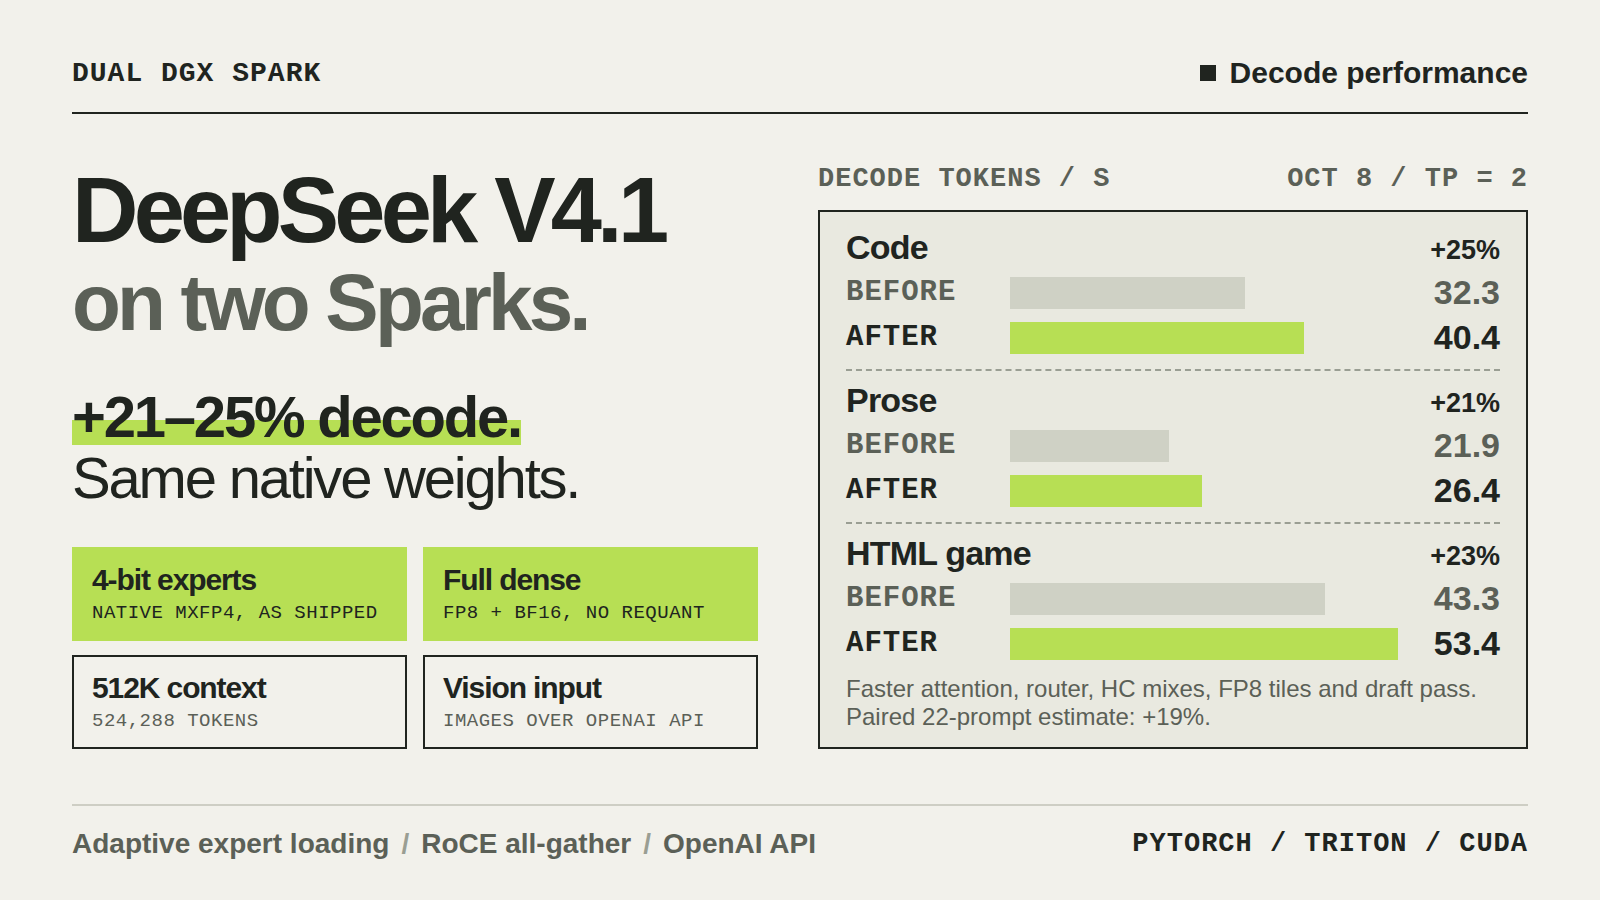
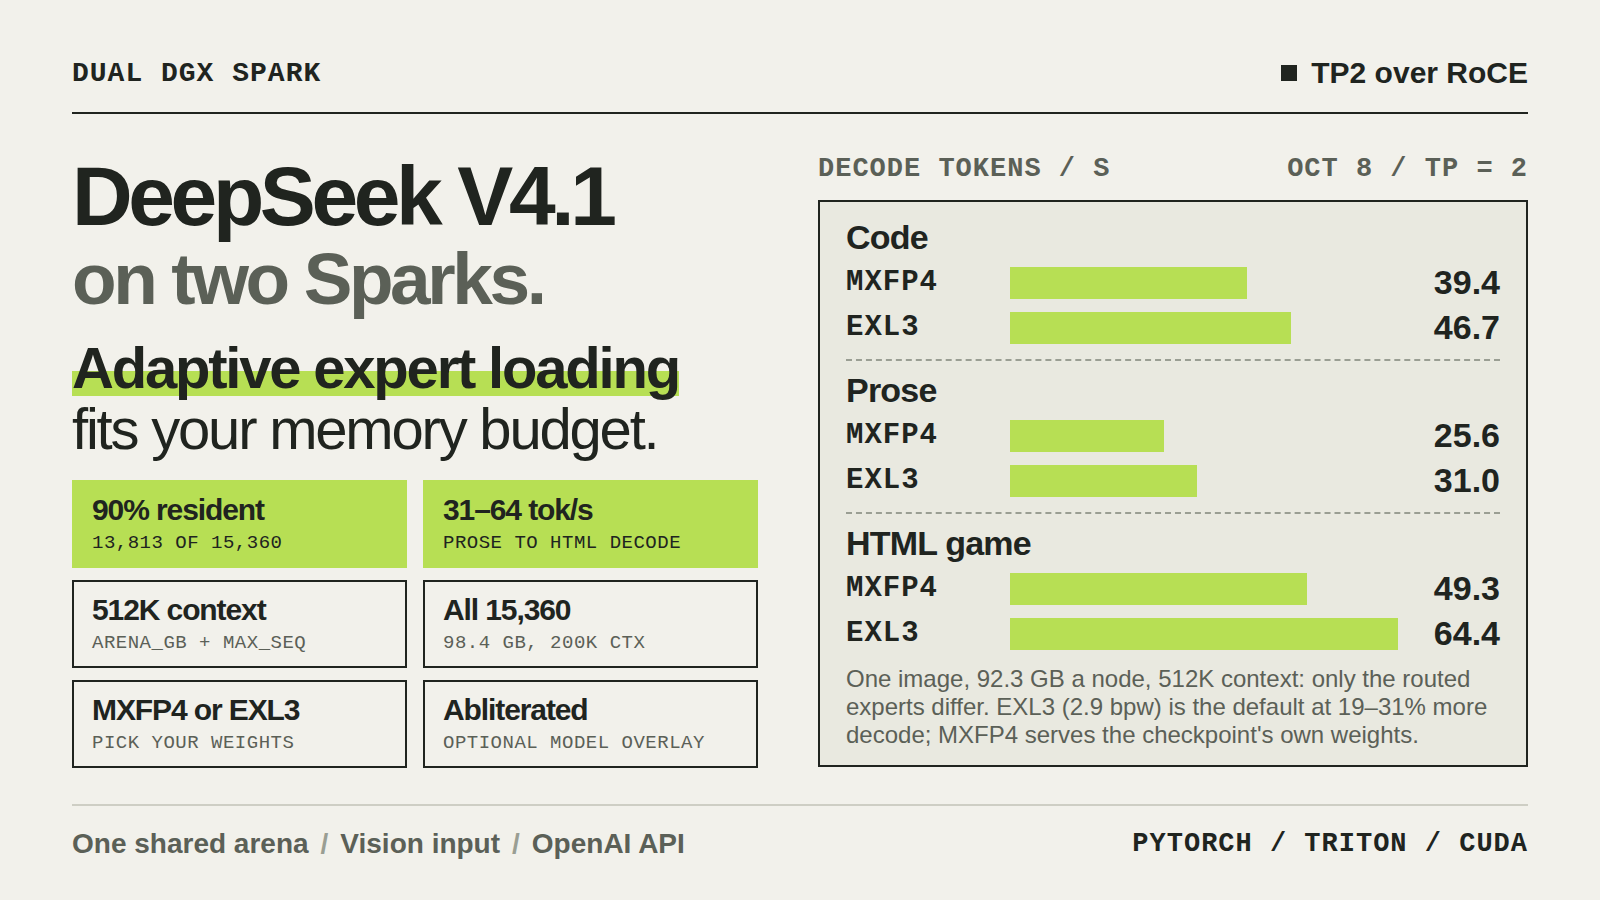
Social card: EXL3 decode against FP4, same engine and memory
The performance card still showed the FP4 tuning round. It now leads with the profile
comparison from the 2026-10-08 benchmark at 92.3 GB/node: code 39.4 -> 46.7, essay
25.6 -> 31.0, HTML game 49.3 -> 64.4 tok/s (+19%, +21%, +31%), with tiles for 90% vs 64%
residency, the all-weights profile, prefill parity (8K cold 1,445 tok/s) and FP4 kept as a
one-switch profile.

The README said 18-31%; 46.7 / 39.4 is +18.5%, which the card rounds to +19, so the README
now says 19-31% to match. The card makes a speed claim only -- the two profiles have not
been compared on answer quality.

diff --git a/assets/social/performance.html b/assets/social/performance.html
@@ -3,12 +3,12 @@
 <head>
 <meta charset="utf-8">
 <meta name="viewport" content="width=device-width, initial-scale=1">
-<title>DeepSeek V4.1 on two Sparks: decode performance</title>
+<title>DeepSeek V4.1 on two Sparks: adaptive expert residency</title>
 <style>
   /* Same system as dual-spark.html / adaptive-depth.html: paper, ink, lime; 1600 x 900 (16:9, X large card).
      Sized for phones: X shows this ~400 px wide (x0.25), so no text below ~22 px here. */
   :root { color-scheme: light; --paper: #f2f1eb; --ink: #20241f; --quiet: #5b6057; --faint: #9a9e93;
-          --line: #cecec4; --green: #b7df54; --panel: #e9e9e0; --bar: #cfd1c5; }
+          --line: #cecec4; --green: #b7df54; --panel: #e9e9e0; }
   * { box-sizing: border-box; }
   html, body { margin: 0; background: var(--paper); }
   body { font-family: Arial, Helvetica, sans-serif; }
@@ -21,18 +21,18 @@
   .eyebrow { font-size: 28px; }
   .tag { display: flex; align-items: center; gap: 14px; font-size: 30px; font-weight: 600; }
   .tag i { width: 16px; height: 16px; background: var(--ink); display: block; }
-  main { display: grid; grid-template-columns: 690px 1fr; gap: 56px; padding-top: 50px; }
-  h1 { margin: 0; font-size: 92px; line-height: 1.02; letter-spacing: -4.8px; font-weight: 600; }
-  h1 span { display: block; color: var(--quiet); font-size: 80px; letter-spacing: -3.8px; margin-top: 4px; }
-  .claim { margin-top: 44px; }
+  main { display: grid; grid-template-columns: 690px 1fr; gap: 56px; padding-top: 40px; }
+  h1 { margin: 0; font-size: 84px; line-height: 1.02; letter-spacing: -4.4px; font-weight: 600; }
+  h1 span { display: block; color: var(--quiet); font-size: 73px; letter-spacing: -3.4px; margin-top: 2px; }
+  .claim { margin-top: 22px; }
   .claim .label { font-size: 25px; color: var(--quiet); }
   h2 { font-size: 58px; line-height: 1.05; letter-spacing: -2.2px; font-weight: 500; margin: 10px 0 14px; }
   /* marker underline: the highlight sits under the text, so the text keeps the left margin */
   h2 b { font-weight: 700; background: linear-gradient(transparent 56%, var(--green) 56%, var(--green) 94%, transparent 94%); }
   .description { font-size: 30px; line-height: 1.3; margin: 0; color: var(--quiet); }
 
-  .capabilities { display: grid; grid-template-columns: 335px 335px; gap: 14px 16px; margin-top: 38px; }
-  .capability { padding: 14px 18px 15px; border: 2px solid var(--ink); }
+  .capabilities { display: grid; grid-template-columns: 335px 335px; gap: 12px 16px; margin-top: 20px; }
+  .capability { padding: 11px 18px 12px; border: 2px solid var(--ink); }
   .capability.native { background: var(--green); border-color: var(--green); }
   .capability strong { display: block; font-size: 30px; line-height: 1.1; letter-spacing: -1.1px; font-weight: 700; }
   .capability.native span { color: var(--ink); }
@@ -46,13 +46,12 @@
   .group-title strong { font-size: 34px; letter-spacing: -.8px; }
   .group-title .mono { font-size: 25px; color: var(--quiet); }
   .row { display: grid; grid-template-columns: 150px 1fr 88px; align-items: center; gap: 14px; margin-top: 6px; }
-  .row .name { font-size: 29px; color: var(--quiet); }
+  .row .name { font-size: 29px; color: var(--ink); }
   .track { height: 32px; }
-  .fill { height: 100%; background: var(--bar); }
-  .row.after .fill { background: var(--green); }
-  .row.after .name, .row.after .value { color: var(--ink); }
-  .value { font-size: 34px; font-weight: 700; text-align: right; font-variant-numeric: tabular-nums; color: var(--quiet); }
-  .delta { font-size: 27px; font-weight: 700; color: var(--ink); }
+  /* Both expert profiles are first-class options on the same image, so neither row is
+     styled as the loser: same bar, same label weight. Only the measured lengths differ. */
+  .fill { height: 100%; background: var(--green); }
+  .value { font-size: 34px; font-weight: 700; text-align: right; font-variant-numeric: tabular-nums; color: var(--ink); }
   .note { margin-top: 12px; font-size: 24px; color: var(--quiet); }
 
   footer { position: absolute; left: 72px; right: 72px; bottom: 40px; display: flex; justify-content: space-between;
@@ -67,48 +66,59 @@
 <div class="poster" id="poster">
   <header>
     <div class="eyebrow mono">Dual DGX Spark</div>
-    <div class="tag"><i></i>Decode performance</div>
+    <div class="tag"><i></i>TP2 over RoCE</div>
   </header>
 
   <main>
     <section>
       <h1>DeepSeek V4.1<span>on two Sparks.</span></h1>
       <div class="claim">
-        <h2><b>+21–25% decode.</b><br>Same native weights.</h2>
+        <h2><b>Adaptive expert loading</b><br>fits your memory budget.</h2>
       </div>
       <div class="capabilities">
-        <div class="capability native"><strong>4-bit experts</strong><span>Native MXFP4, as shipped</span></div>
-        <div class="capability native"><strong>Full dense</strong><span>FP8 + BF16, no requant</span></div>
-        <div class="capability"><strong>512K context</strong><span>524,288 tokens</span></div>
-        <div class="capability"><strong>Vision input</strong><span>Images over OpenAI API</span></div>
+        <div class="capability native"><strong>90% resident</strong><span>13,813 of 15,360</span></div>
+        <div class="capability native"><strong>31–64 tok/s</strong><span>Prose to HTML decode</span></div>
+        <div class="capability"><strong>512K context</strong><span>ARENA_GB + MAX_SEQ</span></div>
+        <div class="capability"><strong>All 15,360</strong><span>98.4 GB, 200K ctx</span></div>
+        <div class="capability"><strong>MXFP4 or EXL3</strong><span>Pick your weights</span></div>
+        <div class="capability"><strong>Abliterated</strong><span>Optional model overlay</span></div>
       </div>
     </section>
 
     <section>
       <div class="chart-heading mono"><span>Decode tokens / s</span><span>Oct 8 / TP = 2</span></div>
+      <!-- Card framing: the claim is adaptive residency and a negotiable memory budget, not a
+           before/after recipe. The two profile rows stay equal in weight and the per-group
+           "+X%" badges are gone on purpose: the chart is a choice between supported profiles,
+           not a scoreboard. The six-chip grid is why the h1 is 84px, not 92px -- the third
+           chip row needs the vertical space (chips end at y=768, footer starts at y=804).
+           Numbers: results/readme-20261008, the run RESULTS.md publishes as the FP4-vs-EXL3
+           comparison (3 workloads, warmup + 2 x 512 tokens, temperature 0). Caveat recorded
+           there: FP4 ran straight after the profile switch, so its residency carried the
+           EXL3-shaped demand history and its prefill arm shows the re-planning stalls. -->
       <div class="panel">
         <div class="group">
-          <div class="group-title"><strong>Code</strong><span class="delta">+25%</span></div>
-          <div class="row"><span class="name mono">Before</span><div class="track"><div class="fill" style="width:60.5%"></div></div><span class="value">32.3</span></div>
-          <div class="row after"><span class="name mono">After</span><div class="track"><div class="fill" style="width:75.7%"></div></div><span class="value">40.4</span></div>
+          <div class="group-title"><strong>Code</strong></div>
+          <div class="row"><span class="name mono">MXFP4</span><div class="track"><div class="fill" style="width:61.2%"></div></div><span class="value">39.4</span></div>
+          <div class="row"><span class="name mono">EXL3</span><div class="track"><div class="fill" style="width:72.5%"></div></div><span class="value">46.7</span></div>
         </div>
         <div class="group">
-          <div class="group-title"><strong>Prose</strong><span class="delta">+21%</span></div>
-          <div class="row"><span class="name mono">Before</span><div class="track"><div class="fill" style="width:41.0%"></div></div><span class="value">21.9</span></div>
-          <div class="row after"><span class="name mono">After</span><div class="track"><div class="fill" style="width:49.4%"></div></div><span class="value">26.4</span></div>
+          <div class="group-title"><strong>Prose</strong></div>
+          <div class="row"><span class="name mono">MXFP4</span><div class="track"><div class="fill" style="width:39.8%"></div></div><span class="value">25.6</span></div>
+          <div class="row"><span class="name mono">EXL3</span><div class="track"><div class="fill" style="width:48.1%"></div></div><span class="value">31.0</span></div>
         </div>
         <div class="group">
-          <div class="group-title"><strong>HTML game</strong><span class="delta">+23%</span></div>
-          <div class="row"><span class="name mono">Before</span><div class="track"><div class="fill" style="width:81.1%"></div></div><span class="value">43.3</span></div>
-          <div class="row after"><span class="name mono">After</span><div class="track"><div class="fill" style="width:100%"></div></div><span class="value">53.4</span></div>
+          <div class="group-title"><strong>HTML game</strong></div>
+          <div class="row"><span class="name mono">MXFP4</span><div class="track"><div class="fill" style="width:76.6%"></div></div><span class="value">49.3</span></div>
+          <div class="row"><span class="name mono">EXL3</span><div class="track"><div class="fill" style="width:100%"></div></div><span class="value">64.4</span></div>
         </div>
-        <div class="note">Faster attention, router, HC mixes, FP8 tiles and draft pass. Paired 22-prompt estimate: +19%.</div>
+        <div class="note">One image, 92.3 GB a node, 512K context: only the routed experts differ. EXL3 (2.9 bpw) is the default at 19–31% more decode; MXFP4 serves the checkpoint's own weights.</div>
       </div>
     </section>
   </main>
 
   <footer>
-    <div class="features">Adaptive expert loading<span>/</span>RoCE all-gather<span>/</span>OpenAI API</div>
+    <div class="features">One shared arena<span>/</span>Vision input<span>/</span>OpenAI API</div>
     <div class="stack mono">PyTorch / Triton / CUDA</div>
   </footer>
 </div>

diff --git a/README.md b/README.md
@@ -36,7 +36,7 @@ arena, and busier layers have taken slots from quieter ones.*
 - **Flexible memory configuration, including room for other small services.** Adjust the resident
   expert count, context allocation and each node's Engram cache to fit your setup.
 - **EXL3 experts by default, native MXFP4 when you want it.** EXL3 trades a
-  requantization (2.9 bpw) for 90% residency and 18-31% faster decode; the FP4 profile
+  requantization (2.9 bpw) for 90% residency and 19-31% faster decode; the FP4 profile
   keeps the checkpoint's expert weights. Switch by restarting with the other example
   profile; nothing is rebuilt.
 - **Let your workload shape memory allocation.** Router-score history learns which
